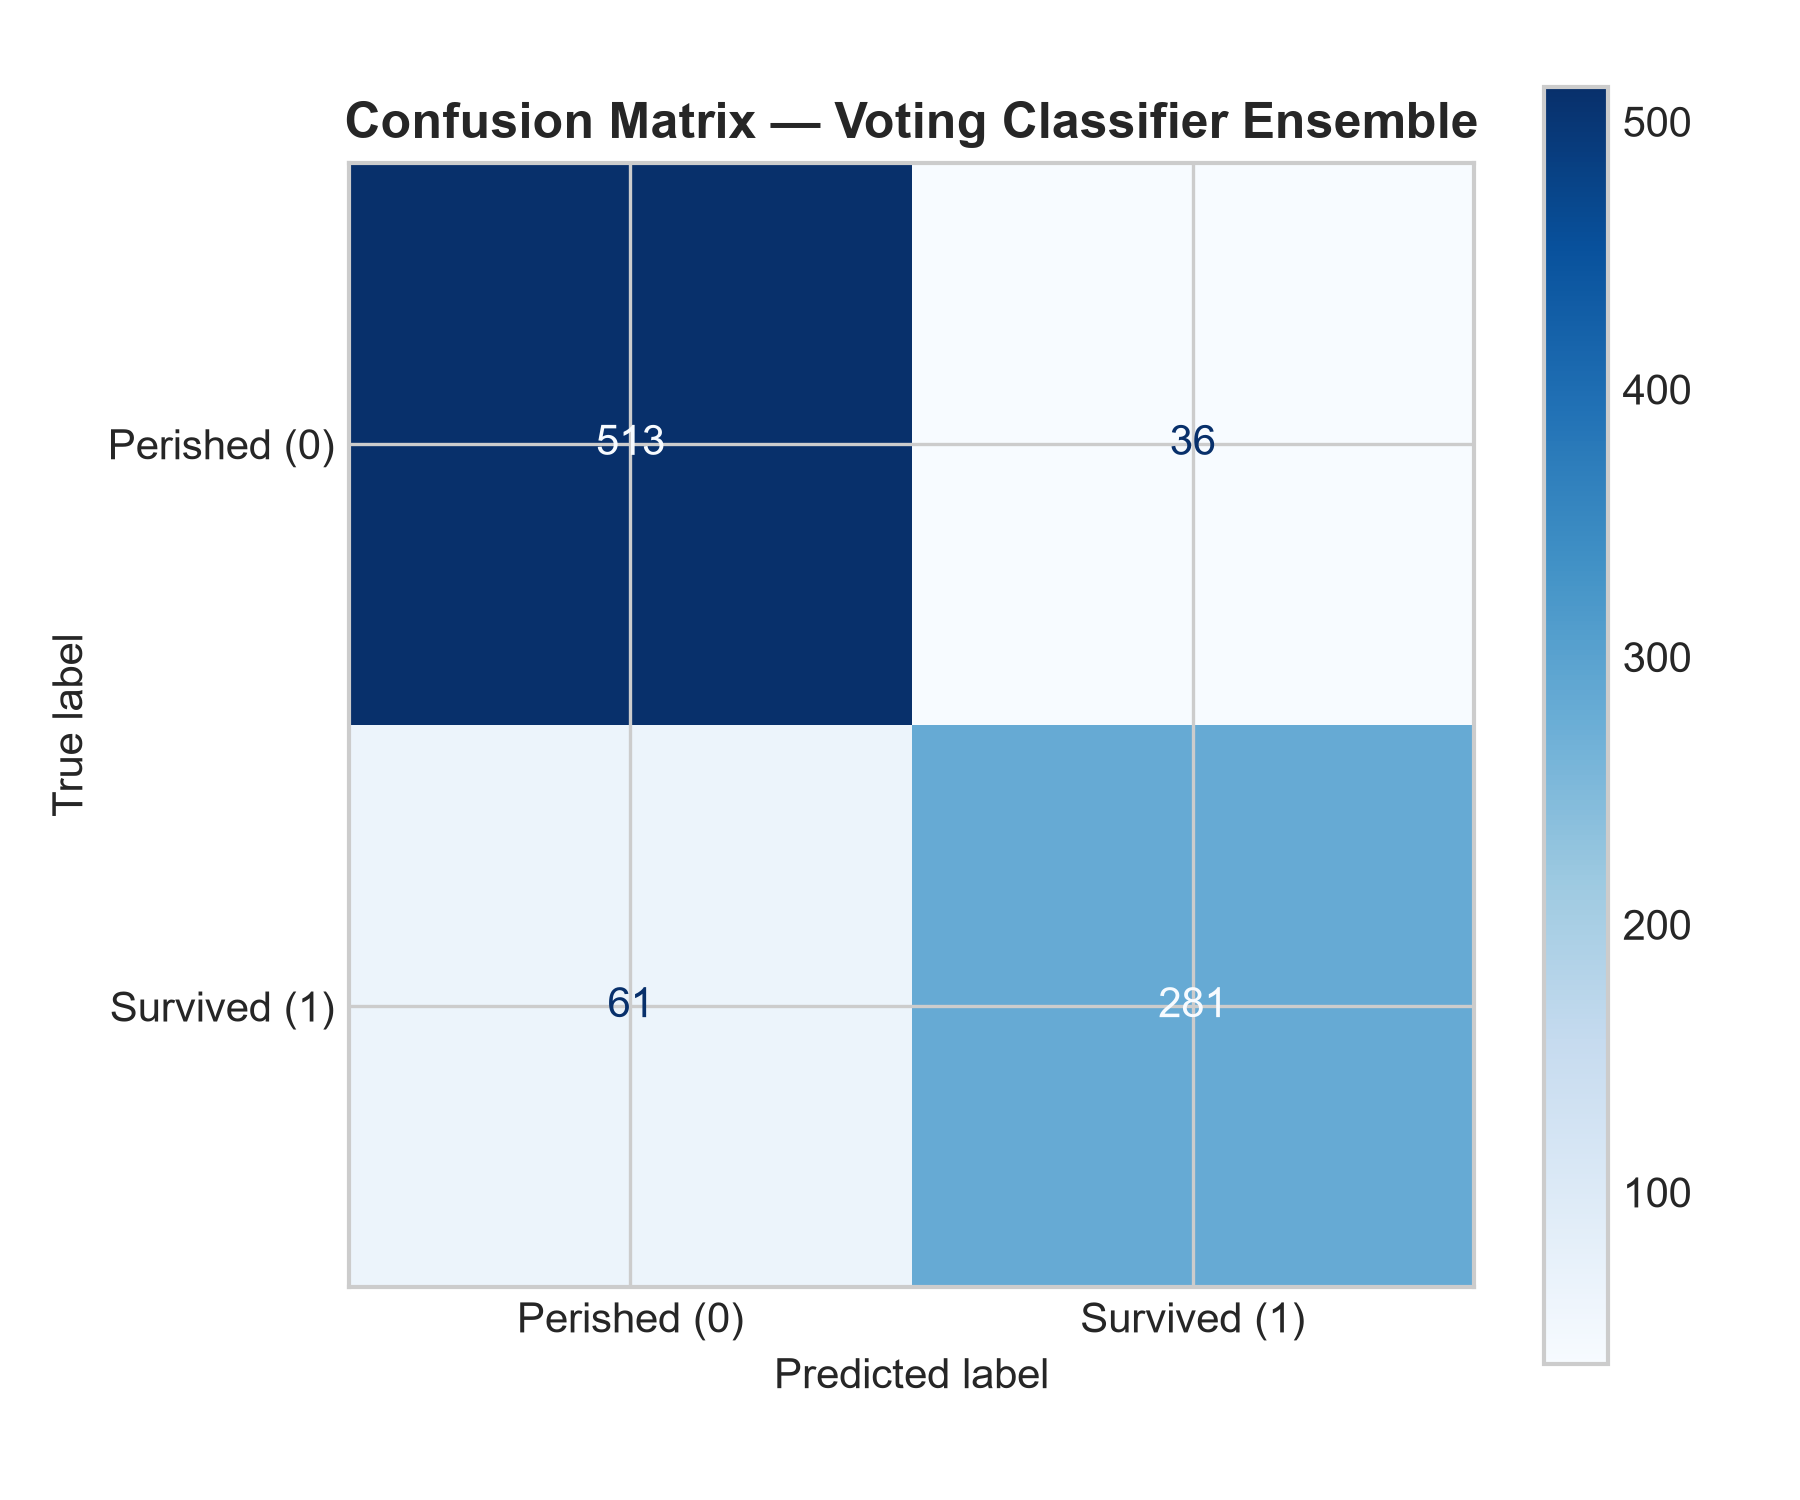
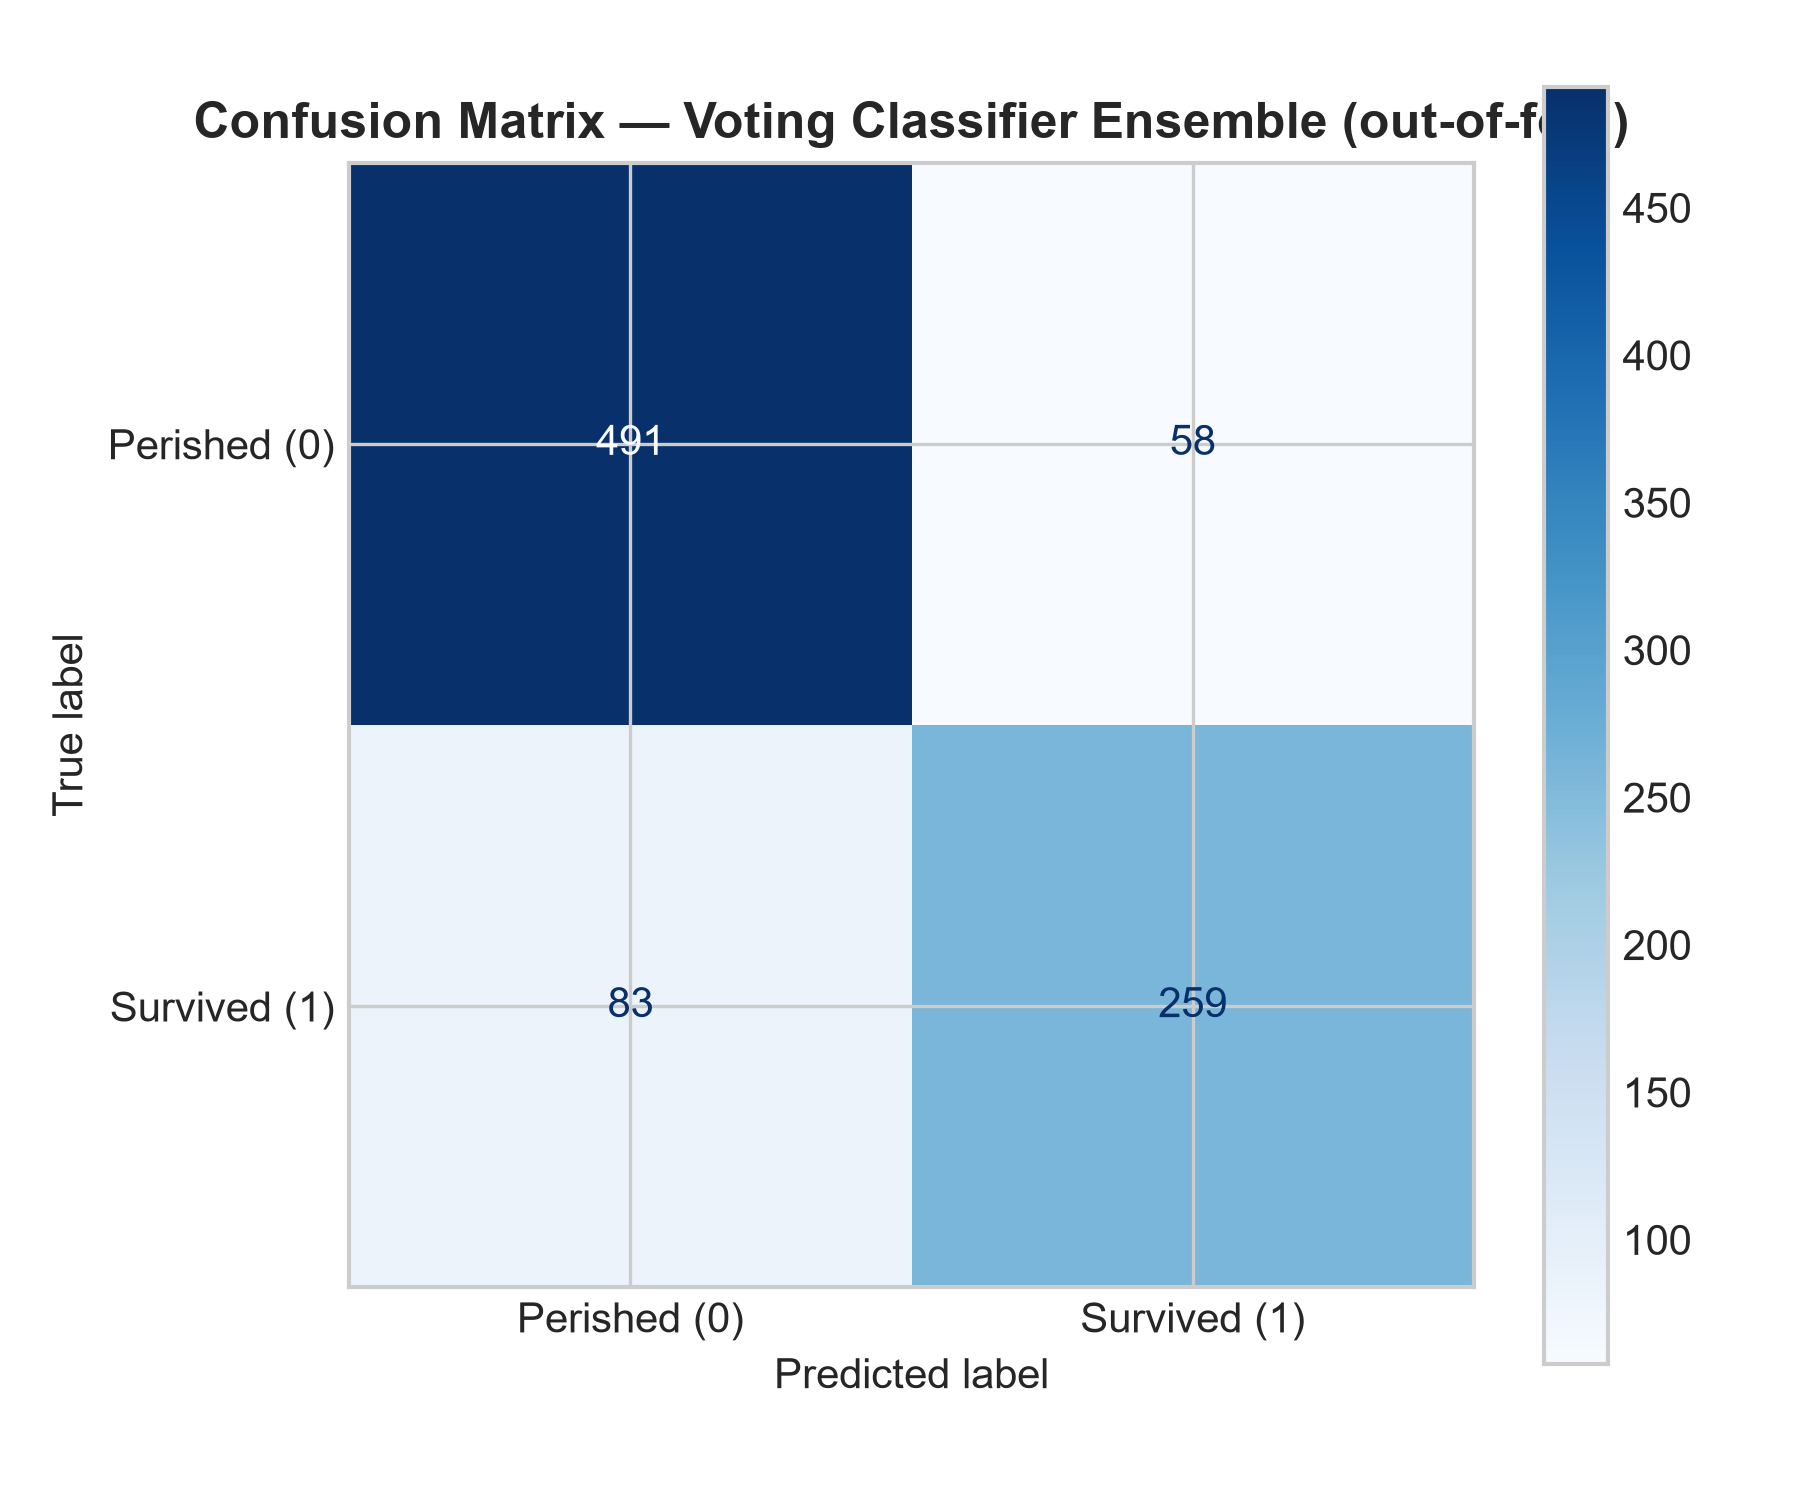
fix(train): report real CV spread and score out-of-fold instead of on training data
Three reporting defects. (1) The ensemble row in the CV comparison chart was plotted with a hardcoded Std_Dev of 0.01, inventing a spread; it is now the measured 0.0207 taken from the actual fold scores. (2) The confusion matrix was computed from predictions on the training rows the model had just memorised, which flatters it (89.11% resubstitution vs 84.18% out-of-fold); all diagnostics now use cross_val_predict. (3) Per-fold scores and a metrics summary were thrown away, so the README table could not be regenerated; the run now persists reports/cv_results.csv and reports/metrics.json. The artifact also records cv_std. train_and_tune_best_model keeps its 3-tuple return so the notebook still works.

diff --git a/src/train.py b/src/train.py
@@ -1,9 +1,10 @@
 import os
+import json
 import joblib
 import pandas as pd
 import numpy as np
 
-from sklearn.model_selection import StratifiedKFold, cross_val_score, GridSearchCV
+from sklearn.model_selection import StratifiedKFold, cross_val_score, cross_val_predict, GridSearchCV
 from sklearn.linear_model import LogisticRegression
 from sklearn.ensemble import RandomForestClassifier, GradientBoostingClassifier, ExtraTreesClassifier, VotingClassifier
 from sklearn.svm import SVC
@@ -12,22 +13,30 @@ from sklearn.pipeline import Pipeline
 
 from data_prep import load_data, impute_missing
 from features import prepare_modeling_data
-from evaluate import plot_cv_comparison, plot_confusion_matrix, plot_feature_importance
+from evaluate import (
+    plot_cv_comparison, plot_confusion_matrix, plot_feature_importance,
+    plot_roc_curve, plot_threshold_sweep, compute_metrics
+)
 
 MODEL_DIR = "models"
+REPORTS_DIR = "reports"
+RANDOM_STATE = 42
 
 def evaluate_models_cv(X_train, y_train):
     """
     Perform 5-Fold Stratified Cross-Validation across candidate baseline models.
+
+    Returns a tidy frame with one row per model, including the individual fold
+    scores so downstream reporting never has to invent a spread value.
     """
-    skf = StratifiedKFold(n_splits=5, shuffle=True, random_state=42)
+    skf = StratifiedKFold(n_splits=5, shuffle=True, random_state=RANDOM_STATE)
     
     models = {
-        'Logistic Regression': Pipeline([('scaler', StandardScaler()), ('clf', LogisticRegression(max_iter=1000, random_state=42))]),
-        'Random Forest': RandomForestClassifier(n_estimators=100, max_depth=6, random_state=42),
-        'Gradient Boosting': GradientBoostingClassifier(n_estimators=100, learning_rate=0.05, max_depth=4, random_state=42),
-        'Extra Trees': ExtraTreesClassifier(n_estimators=100, max_depth=6, random_state=42),
-        'Support Vector Machine': Pipeline([('scaler', StandardScaler()), ('clf', SVC(probability=True, C=1.0, kernel='rbf', random_state=42))])
+        'Logistic Regression': Pipeline([('scaler', StandardScaler()), ('clf', LogisticRegression(max_iter=1000, random_state=RANDOM_STATE))]),
+        'Random Forest': RandomForestClassifier(n_estimators=100, max_depth=6, random_state=RANDOM_STATE),
+        'Gradient Boosting': GradientBoostingClassifier(n_estimators=100, learning_rate=0.05, max_depth=4, random_state=RANDOM_STATE),
+        'Extra Trees': ExtraTreesClassifier(n_estimators=100, max_depth=6, random_state=RANDOM_STATE),
+        'Support Vector Machine': Pipeline([('scaler', StandardScaler()), ('clf', SVC(probability=True, C=1.0, kernel='rbf', random_state=RANDOM_STATE))])
     }
     
     cv_results = []
@@ -40,23 +49,35 @@ def evaluate_models_cv(X_train, y_train):
         scores = cross_val_score(model, X_train, y_train, cv=skf, scoring='accuracy')
         mean_score = scores.mean()
         std_score = scores.std()
-        cv_results.append({'Model': name, 'Mean_CV_Accuracy': mean_score, 'Std_Dev': std_score})
+        cv_results.append({
+            'Model': name,
+            'Mean_CV_Accuracy': mean_score,
+            'Std_Dev': std_score,
+            **{f'Fold{i+1}': s for i, s in enumerate(scores)}
+        })
         print(f"{name:<25} | Mean Accuracy: {mean_score:.4f} (+/- {std_score:.4f})")
         
     return pd.DataFrame(cv_results)
 
-def train_and_tune_best_model(X_train, y_train):
+def train_and_tune_best_model(X_train, y_train, details=None):
     """
     Tune top candidate model using GridSearchCV and build an optimal Voting Ensemble.
+
+    Parameters
+    ----------
+    details : dict, optional
+        When provided, it is populated with the measured ensemble spread, the
+        OOF metrics and the losing candidates' scores so callers can report real
+        numbers. The return signature is unchanged (notebook compatible).
     """
     print("\n" + "="*50)
     print(" HYPERPARAMETER TUNING & ENSEMBLE BUILDING ")
     print("="*50)
     
-    skf = StratifiedKFold(n_splits=5, shuffle=True, random_state=42)
+    skf = StratifiedKFold(n_splits=5, shuffle=True, random_state=RANDOM_STATE)
     
     # 1. GridSearch Random Forest
-    rf = RandomForestClassifier(random_state=42)
+    rf = RandomForestClassifier(random_state=RANDOM_STATE)
     rf_params = {
         'n_estimators': [100, 200],
         'max_depth': [4, 6, 8],
@@ -68,7 +89,7 @@ def train_and_tune_best_model(X_train, y_train):
     print(f"Best RF CV Score: {grid_rf.best_score_:.4f} with params: {grid_rf.best_params_}")
     
     # 2. GridSearch Gradient Boosting
-    gb = GradientBoostingClassifier(random_state=42)
+    gb = GradientBoostingClassifier(random_state=RANDOM_STATE)
     gb_params = {
         'n_estimators': [100, 150],
         'learning_rate': [0.03, 0.05, 0.1],
@@ -80,9 +101,9 @@ def train_and_tune_best_model(X_train, y_train):
     print(f"Best GB CV Score: {grid_gb.best_score_:.4f} with params: {grid_gb.best_params_}")
     
     # 3. Extra Trees & SVC Pipelines
-    et = ExtraTreesClassifier(n_estimators=150, max_depth=6, random_state=42)
-    svc_pipe = Pipeline([('scaler', StandardScaler()), ('clf', SVC(probability=True, C=1.0, kernel='rbf', random_state=42))])
-    lr_pipe = Pipeline([('scaler', StandardScaler()), ('clf', LogisticRegression(max_iter=1000, random_state=42))])
+    et = ExtraTreesClassifier(n_estimators=150, max_depth=6, random_state=RANDOM_STATE)
+    svc_pipe = Pipeline([('scaler', StandardScaler()), ('clf', SVC(probability=True, C=1.0, kernel='rbf', random_state=RANDOM_STATE))])
+    lr_pipe = Pipeline([('scaler', StandardScaler()), ('clf', LogisticRegression(max_iter=1000, random_state=RANDOM_STATE))])
     
     # 4. Soft Voting Ensemble
     voting_clf = VotingClassifier(
@@ -119,9 +140,20 @@ def train_and_tune_best_model(X_train, y_train):
         'model': best_model,
         'model_name': model_name,
         'cv_score': best_score,
+        'cv_std': float(ensemble_scores.std()),
         'feature_names': list(X_train.columns)
     }, model_file)
     print(f"\nSaved trained best model ({model_name}) to '{model_file}'")
+    
+    if details is not None:
+        details['ensemble_scores'] = ensemble_scores
+        details['ensemble_mean'] = float(ensemble_scores.mean())
+        details['ensemble_std'] = float(ensemble_scores.std())
+        details['rf_score'] = float(grid_rf.best_score_)
+        details['rf_params'] = grid_rf.best_params_
+        details['gb_score'] = float(grid_gb.best_score_)
+        details['gb_params'] = grid_gb.best_params_
+        details['skf'] = skf
     
     return best_model, model_name, best_score
 
@@ -141,12 +173,25 @@ def run_pipeline():
     cv_df = evaluate_models_cv(X_train, y_train)
     
     # Train Best Model
-    best_model, model_name, best_score = train_and_tune_best_model(X_train, y_train)
+    details = {}
+    best_model, model_name, best_score = train_and_tune_best_model(X_train, y_train, details=details)
     
-    # Add Ensemble score to plot comparison
-    ensemble_row = pd.DataFrame([{'Model': 'Ensemble Voting', 'Mean_CV_Accuracy': best_score, 'Std_Dev': 0.01}])
+    # Add ensemble row using the MEASURED spread, not a hardcoded placeholder.
+    ensemble_row = pd.DataFrame([{
+        'Model': 'Ensemble Voting',
+        'Mean_CV_Accuracy': details['ensemble_mean'],
+        'Std_Dev': details['ensemble_std'],
+        **{f'Fold{i+1}': s for i, s in enumerate(details['ensemble_scores'])}
+    }])
     full_cv_df = pd.concat([cv_df, ensemble_row], ignore_index=True)
+    full_cv_df = full_cv_df.sort_values(by='Mean_CV_Accuracy', ascending=False).reset_index(drop=True)
     plot_cv_comparison(full_cv_df)
+    
+    # Persist the benchmark table so the README table is reproducible.
+    os.makedirs(REPORTS_DIR, exist_ok=True)
+    cv_csv = os.path.join(REPORTS_DIR, "cv_results.csv")
+    full_cv_df.round(6).to_csv(cv_csv, index=False)
+    print(f"\nSaved CV benchmark table to '{cv_csv}'")
     
     # Feature Importance Plot (if tree based or extractable)
     if hasattr(best_model, 'feature_importances_'):
@@ -162,10 +207,41 @@ def run_pipeline():
         if cnt > 0:
             importances /= cnt
             plot_feature_importance(X_train.columns, importances)
-            
-    # Self-Confusion Matrix on training predictions
-    train_preds = best_model.predict(X_train)
-    plot_confusion_matrix(y_train, train_preds, model_name=model_name)
+    
+    # Out-of-fold predictions: scoring on data the model just memorised produces a
+    # confusion matrix that flatters the model and is not a generalisation estimate.
+    oof_preds = cross_val_predict(best_model, X_train, y_train, cv=details['skf'], method='predict')
+    oof_probs = cross_val_predict(best_model, X_train, y_train, cv=details['skf'], method='predict_proba')[:, 1]
+    oof_metrics = compute_metrics(y_train, oof_preds, oof_probs)
+    
+    train_metrics = compute_metrics(y_train, best_model.predict(X_train))
+    print("\n" + "="*50)
+    print(" OUT-OF-FOLD GENERALISATION METRICS ")
+    print("="*50)
+    for key, value in oof_metrics.items():
+        print(f"{key:<12}: {value:.4f}")
+    
+    plot_confusion_matrix(y_train, oof_preds, model_name=f"{model_name} (out-of-fold)")
+    plot_roc_curve(y_train, oof_probs, model_name=model_name)
+    plot_threshold_sweep(y_train, oof_probs)
+    
+    metrics_payload = {
+        'selected_model': model_name,
+        'cv_mean_accuracy': float(best_score),
+        'cv_std_accuracy': details['ensemble_std'],
+        'oof_metrics': {k: float(v) for k, v in oof_metrics.items()},
+        'resubstitution_metrics': {k: float(v) for k, v in train_metrics.items()},
+        'candidates': {
+            'random_forest': {'cv_score': details['rf_score'], 'params': details['rf_params']},
+            'gradient_boosting': {'cv_score': details['gb_score'], 'params': details['gb_params']},
+        },
+        'n_train': int(len(y_train)),
+        'n_test': int(len(te_ids)),
+    }
+    metrics_file = os.path.join(REPORTS_DIR, "metrics.json")
+    with open(metrics_file, "w", encoding="utf-8") as handle:
+        json.dump(metrics_payload, handle, indent=2)
+    print(f"Saved metrics summary to '{metrics_file}'")
     
     return best_model, X_test, te_ids
 

diff --git a/README.md b/README.md
@@ -25,16 +25,30 @@ An end-to-end Machine Learning pipeline and interactive AI simulator predicting 
 
 ## 📊 Model Cross-Validation Benchmark
 
-All models were evaluated using **5-Fold Stratified K-Fold Cross-Validation** to prevent optimistic bias on small datasets (~891 records):
+All models were evaluated using **5-Fold Stratified K-Fold Cross-Validation** to prevent optimistic bias on small datasets (~891 records). This table is generated by `python src/train.py` and persisted to `reports/cv_results.csv`, so the numbers below are reproducible rather than transcribed by hand.
 
 | Model | Model Family | 5-Fold Mean CV Accuracy | Std Dev |
 | :--- | :--- | :---: | :---: |
 | **Voting Ensemble (Soft)** 🏆 | **Ensemble (RF + GB + ET + SVC + LR)** | **84.17%** | **±0.0207** |
 | Gradient Boosting (Tuned) | Tree Boosting | 84.06% | ±0.0215 |
 | Random Forest (Tuned) | Bagged Trees | 83.50% | ±0.0141 |
-| Logistic Regression | Linear Model | 83.05% | ±0.0170 |
 | Extra Trees Classifier | Tree Ensemble | 83.16% | ±0.0036 |
+| Logistic Regression | Linear Model | 83.05% | ±0.0170 |
 | Support Vector Machine (SVC) | Kernel Model | 82.38% | ±0.0085 |
+
+### Out-of-Fold Generalisation Metrics
+
+The confusion matrix, ROC/PR curves and threshold sweep are all computed from **out-of-fold predictions** (`cross_val_predict`) rather than from predictions on the data the model was just fitted to. Resubstitution accuracy is 89.11% versus 84.18% out-of-fold, so the honest generalisation estimate is the one reported here.
+
+| Metric | Value |
+| :--- | :---: |
+| Accuracy | 84.18% |
+| Precision | 81.70% |
+| Recall | 75.73% |
+| F1 Score | 78.60% |
+| ROC-AUC | 87.78% |
+
+Full numbers, tuned hyperparameters and the CV benchmark table land in `reports/metrics.json` and `reports/cv_results.csv` on every run.
 
 ---
 
